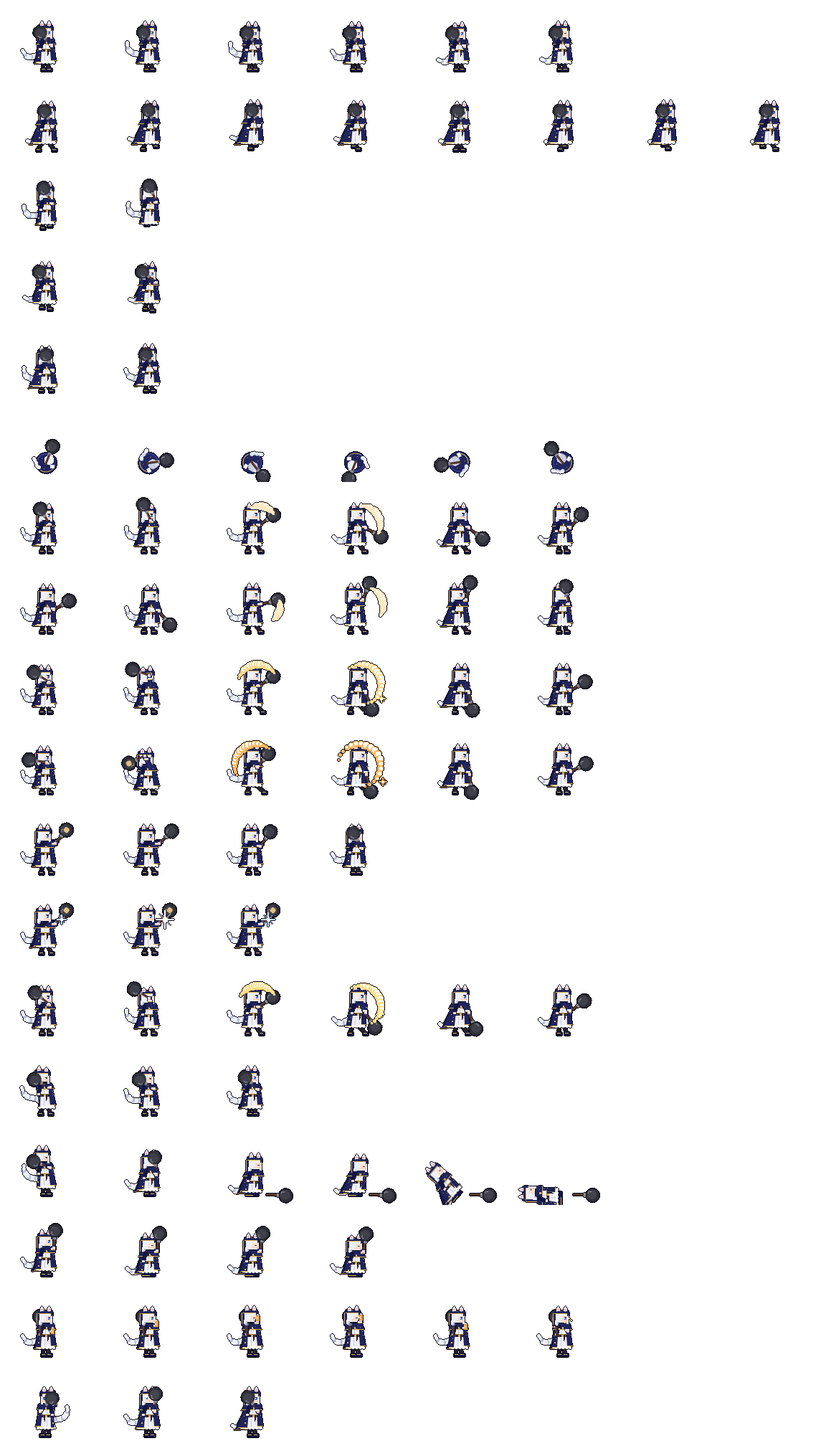
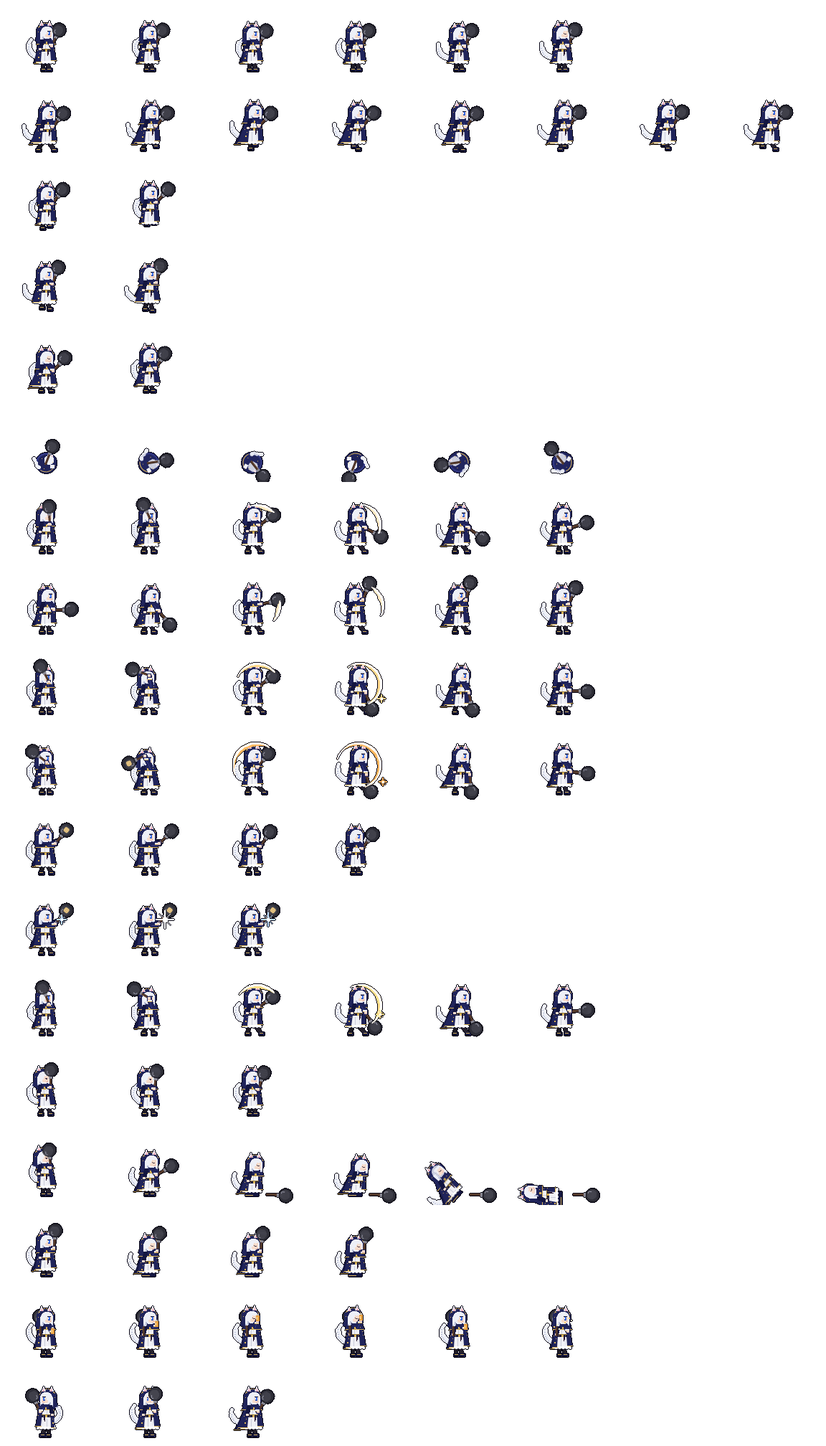
WIP: sprite polish (hood, tail curl, smear, weapon carry)

diff --git a/index.html b/index.html
@@ -60,7 +60,7 @@ const BOSS = { name: '弔鐘の騎士 ノクターン', hp: 950, souls: 2000, w:
 const LEVEL_COST = lv => 120 + lv * 60;
 
 // ---- sprite metadata embedded at build time (tools/build.py) ----
-const EMBEDDED_META = {};
+const EMBEDDED_META = {"astarte_pan":{"cw":144,"ch":112,"ax":64,"ay":100,"anims":{"idle":{"row":0,"n":6,"ph":["","","","","",""]},"run":{"row":1,"n":8,"ph":["","","","","","","",""]},"jump":{"row":2,"n":2,"ph":["",""]},"fall":{"row":3,"n":2,"ph":["",""]},"land":{"row":4,"n":2,"ph":["",""]},"roll":{"row":5,"n":6,"ph":["","","","","",""]},"light1":{"row":6,"n":6,"ph":["wu","wu","act","act","rec","rec"]},"light2":{"row":7,"n":6,"ph":["wu","wu","act","act","rec","rec"]},"light3":{"row":8,"n":6,"ph":["wu","wu","act","act","rec","rec"]},"heavy":{"row":9,"n":6,"ph":["wu","wu","act","act","rec","rec"]},"parry":{"row":10,"n":4,"ph":["","","",""]},"parryflash":{"row":11,"n":3,"ph":["","",""]},"riposte":{"row":12,"n":6,"ph":["wu","wu","act","act","rec","rec"]},"hit":{"row":13,"n":3,"ph":["","",""]},"death":{"row":14,"n":6,"ph":["","","","","",""]},"rest":{"row":15,"n":4,"ph":["","","",""]},"flask":{"row":16,"n":6,"ph":["","","","","",""]},"turn":{"row":17,"n":3,"ph":["","",""]}}},"astarte_scythe":{"cw":144,"ch":112,"ax":64,"ay":100,"anims":{"idle":{"row":0,"n":6,"ph":["","","","","",""]},"run":{"row":1,"n":8,"ph":["","","","","","","",""]},"jump":{"row":2,"n":2,"ph":["",""]},"fall":{"row":3,"n":2,"ph":["",""]},"land":{"row":4,"n":2,"ph":["",""]},"roll":{"row":5,"n":6,"ph":["","","","","",""]},"light1":{"row":6,"n":6,"ph":["wu","wu","act","act","rec","rec"]},"light2":{"row":7,"n":6,"ph":["wu","wu","act","act","rec","rec"]},"light3":{"row":8,"n":6,"ph":["wu","wu","act","act","rec","rec"]},"heavy":{"row":9,"n":6,"ph":["wu","wu","act","act","rec","rec"]},"parry":{"row":10,"n":4,"ph":["","","",""]},"parryflash":{"row":11,"n":3,"ph":["","",""]},"riposte":{"row":12,"n":6,"ph":["wu","wu","act","act","rec","rec"]},"hit":{"row":13,"n":3,"ph":["","",""]},"death":{"row":14,"n":6,"ph":["","","","","",""]},"rest":{"row":15,"n":4,"ph":["","","",""]},"flask":{"row":16,"n":6,"ph":["","","","","",""]},"turn":{"row":17,"n":3,"ph":["","",""]}}}};
 // ===== core: canvas, input, utils =====
 const cv = document.getElementById('c'), ctx = cv.getContext('2d');
 ctx.imageSmoothingEnabled = false;
@@ -291,7 +291,7 @@ const ASTA = {};
   function poly(g, pts, c) { g.fillStyle = c; g.beginPath(); g.moveTo(Math.round(pts[0][0]), Math.round(pts[0][1])); for (const p of pts.slice(1)) g.lineTo(Math.round(p[0]), Math.round(p[1])); g.closePath(); g.fill(); }
   function line(g, x0, y0, x1, y1, w, c) { const n = Math.max(1, Math.ceil(Math.hypot(x1 - x0, y1 - y0))); g.fillStyle = c; for (let i = 0; i <= n; i++) { const t = i / n; g.fillRect(Math.round(x0 + (x1 - x0) * t - w / 2), Math.round(y0 + (y1 - y0) * t - w / 2), w, w); } }
   const D = { by: 0, lean: 0, crouch: 0, fl: [4, 0], bl: [-4, 0], flare: 0, capeUp: 0, skirt: 0, tail: 0, tailUp: 0, ear: 0, eye: 'open', headDy: 0, hairUp: 0,
-    hand: [8, -36], wa: null, two: false, kneel: 0, rot: 0, front: false, mirror: false, smear: null, flask: null, wHand: 'front', burst: 0, heal: 0, lie: 0, dropW: false };
+    hand: [8, -36], wa: null, two: false, kneel: 0, rot: 0, front: false, mirror: false, smear: null, flask: null, wHand: 'front', burst: 0, heal: 0, lie: 0, dropW: false, wBehind: true };
   // ---------- weapon ----------
   function weapon(g, hx, hy, a, wpn, hot) {
     g.save(); g.translate(hx, hy); g.rotate(a);
@@ -315,15 +315,18 @@ const ASTA = {};
     }
     g.restore();
   }
-  function smear(g, s) { // crescent swing smear (pivot = hand)
-    const [cx, cy] = s.c, n = 18; for (let i = 0; i <= n; i++) { const t = i / n, a = s.a0 + (s.a1 - s.a0) * t, w = Math.round(1 + 4 * Math.sin(t * Math.PI));
-      disc(g, cx + Math.cos(a) * s.r, cy + Math.sin(a) * s.r, w, s.col); if (w > 2) disc(g, cx + Math.cos(a) * (s.r + 1), cy + Math.sin(a) * (s.r + 1), w - 2, '#ffffff'); }
+  function smear(g, s) { // crescent swing smear (pivot = hand): outer arc + thinner inner arc
+    const [cx, cy] = s.c, n = 20, o = [], inn = [], hi = [];
+    for (let i = 0; i <= n; i++) { const t = i / n, a = s.a0 + (s.a1 - s.a0) * t, w = 1 + 7 * Math.sin(t * Math.PI) * (0.4 + .6 * t);
+      o.push([cx + Math.cos(a) * (s.r + 2), cy + Math.sin(a) * (s.r + 2)]); inn.push([cx + Math.cos(a) * (s.r + 2 - w), cy + Math.sin(a) * (s.r + 2 - w)]); hi.push([cx + Math.cos(a) * (s.r + 1 - w * .35), cy + Math.sin(a) * (s.r + 1 - w * .35)]); }
+    poly(g, o.concat(inn.reverse()), s.col); poly(g, o.concat(hi.slice().reverse()), '#ffffff');
   }
   // ---------- body ----------
   function body(g, F, wpn) {
     const k = F.crouch + F.kneel * 10, hipY = -20 + k + F.by, L = F.lean, sx = L * .5, hx = L; // upper body shear: torso shifts half, head full
-    // tail (behind) - chain of discs, curling up
-    { let x = -9 + sx * .3, y = hipY - 4, a = Math.PI * .85 + F.tail * .4; for (let i = 0; i < 12; i++) { const r = i < 9 ? 3 : 2; disc(g, x, y, r, i % 3 ? C.hair : C.hairS); a += (i < 5 ? -.05 : .28) - F.tailUp * .05 + F.tail * .03; x += Math.cos(a) * 2.6; y += Math.sin(a) * 2.6 - .9 - F.tailUp * .4; } }
+    // tail (behind) - fluffy C-curl rising behind her
+    { let x = -8 + sx * .3, y = hipY - 2, a = Math.PI * .92 - F.tailUp * .25 + F.tail * .25; for (let i = 0; i < 13; i++) { const r = i < 2 ? 2 : i < 10 ? 3 : 2;
+        disc(g, x, y, r, C.hair); if (i > 1 && i < 11) px(g, x - 1, y + r - 1, 2, 1, C.hairS); a += .2 + F.tail * .02 - (i > 8 ? F.tailUp * .05 : 0); x += Math.cos(a) * 2.8; y += Math.sin(a) * 2.8; } }
     // back cape panel (lags with flare)
     const hem = -12 + k * .7 - F.capeUp * 8;
     poly(g, [[-9 + sx, hipY - 26], [-4 + sx, hipY - 26], [-4 + sx * .3, hem], [-17 - F.flare * 9, hem + F.flare * 2 - F.capeUp * 3]], C.navyD);
@@ -358,30 +361,36 @@ const ASTA = {};
   }
   function head(g, F, ox, oy) {
     const y = oy + F.headDy, x = ox, hu = F.hairUp;
-    // hair back + hood back
-    px(g, x - 13, y - 14, 5, 18, C.navy); px(g, x - 13, y - 14, 1, 16, C.gold);
-    px(g, x - 9, y - 16 - hu, 18, 15, C.hair); px(g, x - 10, y - 4, 4, 6 - hu, C.hair); px(g, x - 9, y + 1 - hu, 3, 2, C.hairS); px(g, x + 6, y - 4, 3, 5, C.hair); px(g, x - 7, y - 2, 2, 3, C.hairS);
-    if (F.front) { // facing camera
-      px(g, x - 5, y - 12, 11, 10, C.skin); px(g, x - 6, y - 14, 13, 4, C.hair); px(g, x - 6, y - 10, 2, 5, C.hair); px(g, x + 5, y - 10, 2, 5, C.hair);
-      px(g, x - 4, y - 9, 2, 3, C.eye); px(g, x + 2, y - 9, 2, 3, C.eye); px(g, x - 4, y - 9, 1, 1, '#fff'); px(g, x + 2, y - 9, 1, 1, '#fff'); px(g, x, y - 4, 1, 1, '#d89a9a');
+    // hood (rounded), back drape
+    disc(g, x - 1, y - 9, 12, C.navy); poly(g, [[x - 12, y - 6], [x - 6, y - 4], [x - 9, y + 6], [x - 15, y + 4]], C.navy); disc(g, x - 3, y - 13, 7, C.navyL);
+    disc(g, x - 1, y - 9, 12, C.navy);
+    for (const [a, b] of [[-9, -16], [-4, -20], [-11, -9], [2, -20]]) px(g, x + a, y + b, 1, 1, C.gold);
+    // hair: bob with side locks
+    disc(g, x + 1, y - 8, 8, C.hair); px(g, x - 8, y - 9, 4, 13 - hu, C.hair); px(g, x - 8, y + 2 - hu, 2, 2, C.hairS); px(g, x - 5, y - 2, 2, 5, C.hairS);
+    px(g, x + 7, y - 9, 3, 12 - hu, C.hair); px(g, x + 8, y + 1 - hu, 2, 2, C.hairS);
+    if (F.front) {
+      px(g, x - 4, y - 11, 10, 10, C.skin); px(g, x - 5, y - 13, 12, 3, C.hair); px(g, x - 5, y - 10, 1, 1, C.hair); px(g, x + 1, y - 10, 1, 1, C.hair); px(g, x + 6, y - 10, 1, 1, C.hair);
+      for (const ex of [-3, 3]) { px(g, x + ex, y - 8, 2, 4, C.eye); px(g, x + ex, y - 9, 2, 1, '#1d2f78'); px(g, x + ex, y - 8, 1, 1, '#fff'); }
+      px(g, x + 1, y - 3, 1, 1, '#d89a9a');
     } else {
-      px(g, x - 2, y - 12, 10, 10, C.skin); px(g, x - 3, y - 14, 11, 4, C.hair); px(g, x + 2, y - 11, 2, 2, C.hair); px(g, x - 3, y - 11, 3, 6, C.hair); px(g, x + 7, y - 6, 1, 2, C.skin);
+      px(g, x - 1, y - 11, 9, 10, C.skin); px(g, x + 7, y - 9, 1, 6, C.skin); px(g, x - 1, y - 2, 1, 1, C.hair); px(g, x + 7, y - 2, 1, 1, C.hair);
+      px(g, x - 2, y - 13, 11, 3, C.hair); px(g, x + 1, y - 10, 1, 2, C.hair); px(g, x + 4, y - 10, 1, 1, C.hair); px(g, x + 8, y - 10, 1, 1, C.hair); px(g, x - 1, y - 10, 2, 5, C.hair);
       const e = F.eye;
-      if (e === 'closed') px(g, x + 3, y - 7, 3, 1, '#4a3a4a');
-      else if (e === 'wince') { px(g, x + 3, y - 8, 3, 1, '#4a3a4a'); px(g, x + 4, y - 7, 2, 1, '#4a3a4a'); }
-      else { px(g, x + 3, y - 9, 3, 4, C.eye); px(g, x + 3, y - 9, 3, 1, '#1d2f78'); px(g, x + 3, y - 8, 1, 1, '#fff'); px(g, x + 5, y - 6, 1, 1, '#9ab8ff'); if (e === 'fierce') px(g, x + 2, y - 10, 4, 1, '#2a2a3a'); }
-      px(g, x + 6, y - 4, 1, 1, '#d89a9a');
+      if (e === 'closed') { px(g, x + 3, y - 6, 3, 1, '#4a3a4a'); px(g, x + 2, y - 7, 1, 1, '#4a3a4a'); }
+      else if (e === 'wince') { px(g, x + 3, y - 7, 3, 1, '#4a3a4a'); px(g, x + 4, y - 6, 2, 1, '#4a3a4a'); }
+      else { px(g, x + 3, y - 9, 3, 5, C.eye); px(g, x + 2, y - 10, 5, 1, '#1d1a30'); px(g, x + 3, y - 8, 1, 2, '#fff'); px(g, x + 5, y - 5, 1, 1, '#9ab8ff'); px(g, x + 3, y - 5, 3, 1, '#2a4ab0');
+        if (e === 'fierce') px(g, x + 2, y - 11, 5, 1, '#9a9ab0'); }
+      px(g, x + 6, y - 3, 1, 1, '#d89a9a'); px(g, x + 4, y - 2, 2, 1, '#e8b8b0');
     }
-    // hood
-    px(g, x - 11, y - 18, 20, 5, C.navy); px(g, x - 11, y - 14, 20, 1, C.gold); px(g, x + 7, y - 16, 3, 6, C.navy); px(g, x + 8, y - 11, 1, 1, C.gold);
-    for (const [a, b] of [[-8, -17], [-2, -18], [4, -17]]) px(g, x + a, y + b, 1, 1, C.gold);
-    // ears (twitch)
-    const ear = (ex, tw) => { px(g, x + ex, y - 21 + tw, 5, 4, C.hair); px(g, x + ex + 1, y - 23 + tw * 2, 3, 2, C.hair); px(g, x + ex + 2, y - 24 + tw * 2, 1, 1, C.hair); px(g, x + ex + 1, y - 20 + tw, 3, 2, C.pink); };
-    ear(-8, F.ear > 0 ? 1 : 0); ear(2, F.ear < 0 ? 1 : 0);
+    // hood front trim
+    for (let a = -2.6; a < -0.3; a += .12) px(g, x - 1 + Math.cos(a) * 12, y - 9 + Math.sin(a) * 12, 1, 1, C.gold);
+    // ears poke through the hood
+    const ear = (ex, tw) => { poly(g, [[x + ex, y - 17 + tw], [x + ex + 6, y - 17 + tw], [x + ex + 3, y - 25 + tw * 2]], C.hair); poly(g, [[x + ex + 1.5, y - 17 + tw], [x + ex + 4.5, y - 17 + tw], [x + ex + 3, y - 22 + tw * 2]], C.pink); };
+    ear(-9, F.ear > 0 ? 1 : 0); ear(2, F.ear < 0 ? 1 : 0);
   }
   function arms(g, F, b, wpn, phase) { // phase 'back' draws the far arm, 'front' the near arm + weapon
     const shF = [5 + b.hx * .7, b.ty + 1], shB = [-5 + b.hx * .7, b.ty + 1];
-    const wa = F.wa === null ? (wpn === 'pan' ? -2.3 : -1.75) : F.wa, [hx, hy] = F.hand;
+    const wa = F.wa === null ? -2.3 : F.wa, [hx, hy] = F.hand;
     if (phase === 'back') {
       let bh = [-7 + b.tx, b.ty + 14];
       if (F.two && F.wHand === 'front') bh = [hx + Math.cos(wa) * (wpn === 'pan' ? 4 : 12), hy + Math.sin(wa) * (wpn === 'pan' ? 4 : 12)];
@@ -390,7 +399,7 @@ const ASTA = {};
       if (F.wHand === 'back') weapon(g, bh[0], bh[1], F.wa2 !== undefined ? F.wa2 : -1.45, wpn);
       return;
     }
-    if (F.wHand === 'front') weapon(g, hx, hy, wa, wpn, F.hot);
+    if (F.wHand === 'front' && !(F.wBehind && !F.two)) weapon(g, hx, hy, wa, wpn, F.hot);
     line(g, shF[0], shF[1], hx, hy, 6, C.navy); line(g, shF[0], shF[1] + 2, hx, hy + 2, 1, C.navyL);
     const cx = hx - (hx - shF[0]) * .25, cy = hy - (hy - shF[1]) * .25; px(g, cx - 3, cy - 1, 6, 3, C.white); px(g, cx - 3, cy + 1, 6, 1, C.gold);
     px(g, hx - 2, hy - 2, 4, 4, C.skin); px(g, hx - 2, hy + 1, 4, 1, '#d8b0a0');
@@ -414,6 +423,7 @@ const ASTA = {};
       g.rotate(-Math.PI / 2 * F.lie); g.translate(-2 * F.lie, 0);
     }
     if (F.dropW && !F.lie) weapon(g, 22, -3, .06, wpn);
+    if (F.wBehind && !F.two && F.wHand === 'front' && !F.dropW) weapon(g, F.hand[0], F.hand[1], F.wa === null ? -2.3 : F.wa, wpn, F.hot);
     const b = body(g, F, wpn);
     if (F.two || F.wHand === 'back') arms(g, F, b, wpn, 'back');
     head(g, F, b.hx, b.ty - 3);
@@ -435,16 +445,16 @@ const ASTA = {};
   // ---------- animation definitions ----------
   const S = Math.sin, PI = Math.PI;
   function attack(o, wpn) { // o: a0,a1,h0,h1 (hands), lean0, lean1, crouch, step, col, r
-    const fr = [], idleA = wpn === 'pan' ? -2.3 : -1.75, two = wpn === 'scythe';
-    const mk = (t, ph) => ({ wa: t.wa, hand: t.hand, lean: t.lean, crouch: t.crouch || 0, fl: t.fl || [5, 0], bl: t.bl || [-6, 0], flare: t.flare || 0, two, eye: 'fierce', tail: t.tail || 0, skirt: t.skirt || 0, smear: t.smear || null, hot: t.hot, ear: t.ear || 0, burst: t.burst || 0, burstAt: t.burstAt, burstCol: t.burstCol, ph });
+    const fr = [], idleA = wpn === 'pan' ? -1.15 : -2.3, H0x = wpn === 'pan' ? 8 : 10, H0y = wpn === 'pan' ? -36 : -31, two = wpn === 'scythe';
+    const mk = (t, ph) => ({ wa: t.wa, hand: t.hand, lean: t.lean, crouch: t.crouch || 0, fl: t.fl || [5, 0], bl: t.bl || [-6, 0], flare: t.flare || 0, two, wBehind: false, eye: 'fierce', tail: t.tail || 0, skirt: t.skirt || 0, smear: t.smear || null, hot: t.hot, ear: t.ear || 0, burst: t.burst || 0, burstAt: t.burstAt, burstCol: t.burstCol, ph });
     const H0 = o.h0, H1 = o.h1;
-    fr.push(mk({ wa: lerp(idleA, o.a0, .55), hand: [lerp(8, H0[0], .5), lerp(-36, H0[1], .5)], lean: o.lean0 * .5, crouch: o.crouch * .5, flare: .2, tail: .3 }, 'wu'));
+    fr.push(mk({ wa: lerp(idleA, o.a0, .55), hand: [lerp(H0x, H0[0], .5), lerp(H0y, H0[1], .5)], lean: o.lean0 * .5, crouch: o.crouch * .5, flare: .2, tail: .3 }, 'wu'));
     fr.push(mk({ wa: o.a0, hand: H0, lean: o.lean0, crouch: o.crouch, flare: .4, tail: .6, fl: [6, 0], bl: [-8, 0], hot: o.hot, ear: 1 }, 'wu'));
     const sm = (f0, f1) => ({ c: [lerp(H0[0], H1[0], .5), lerp(H0[1], H1[1], .5) + (o.dy || 0)], a0: lerp(o.a0, o.a1, f0) + (o.so || 0), a1: lerp(o.a0, o.a1, f1) + (o.so || 0), r: o.r, col: o.col });
     fr.push(mk({ wa: lerp(o.a0, o.a1, .55), hand: [lerp(H0[0], H1[0], .6), lerp(H0[1], H1[1], .6)], lean: lerp(o.lean0, o.lean1, .6), flare: -.3, fl: [9 + o.step, 0], bl: [-7, 0], smear: sm(0, .55), skirt: .5, tail: .2 }, 'act'));
     fr.push(mk({ wa: o.a1, hand: H1, lean: o.lean1, flare: -.8, fl: [10 + o.step, 0], bl: [-8, 0], smear: sm(.15, 1), skirt: 1, tail: -.4, burst: o.burst ? 5 : 0, burstAt: o.burstAt, burstCol: o.col }, 'act'));
     fr.push(mk({ wa: o.a1 + (o.a1 > o.a0 ? .15 : -.15), hand: H1, lean: o.lean1 * .7, flare: .9, fl: [9 + o.step, 0], bl: [-6, 0], skirt: .6, tail: -1 }, 'rec'));
-    fr.push(mk({ wa: lerp(o.a1, idleA, .5), hand: [lerp(H1[0], 8, .5), lerp(H1[1], -36, .5)], lean: o.lean1 * .3, flare: .4, fl: [6, 0], bl: [-5, 0], tail: -.5 }, 'rec'));
+    fr.push(mk({ wa: lerp(o.a1, idleA, .5), hand: [lerp(H1[0], H0x, .5), lerp(H1[1], H0y, .5)], lean: o.lean1 * .3, flare: .4, fl: [6, 0], bl: [-5, 0], tail: -.5 }, 'rec'));
     return fr;
   }
   const ATK = {
@@ -461,31 +471,32 @@ const ASTA = {};
       heavy:  { a0: -3.6, a1: 1.3, h0: [-6, -54], h1: [15, -28], lean0: -4, lean1: 6, crouch: 5, step: 7, r: 30, col: '#ffb860', hot: true, burst: 1, burstAt: [38, -18] },
       riposte:{ a0: -2.6, a1: 1.0, h0: [0, -52], h1: [14, -32], lean0: -2, lean1: 5, crouch: 2, step: 3, r: 28, col: '#ffe08a', burst: 1, burstAt: [34, -30] } } };
   function anims(wpn) {
-    const A = {}, idleA = wpn === 'pan' ? -2.3 : -1.75;
-    A.idle = [0, 1, 2, 3, 4, 5].map(i => ({ by: [0, 0, 1, 1, 1, 0][i], tail: S(i / 6 * PI * 2), ear: i === 4 ? 1 : 0, eye: i === 5 ? 'closed' : 'open', wa: idleA + S(i / 6 * PI * 2) * .03, hand: [8, -36 + [0, 0, 1, 1, 1, 0][i]], flare: S(i / 6 * PI * 2) * .1 }));
+    const A = {}, idleA = wpn === 'pan' ? -1.15 : -2.3, H0x = wpn === 'pan' ? 8 : 10, H0y = wpn === 'pan' ? -36 : -31;
+    A.idle = [0, 1, 2, 3, 4, 5].map(i => ({ by: [0, 0, 1, 1, 1, 0][i], tail: S(i / 6 * PI * 2), ear: i === 4 ? 1 : 0, eye: i === 5 ? 'closed' : 'open', wa: idleA + S(i / 6 * PI * 2) * .03, hand: [H0x + 0, H0y + 0 + [0, 0, 1, 1, 1, 0][i]], flare: S(i / 6 * PI * 2) * .1 }));
     A.run = [0, 1, 2, 3, 4, 5, 6, 7].map(i => { const p = i / 8 * PI * 2, c = Math.cos(p), s = S(p);
-      return { fl: [3 + c * 8, -Math.max(0, s) * 5], bl: [-3 - c * 8, -Math.max(0, -s) * 5], by: -Math.round(Math.abs(s) * 2), lean: 3, flare: .7 + s * .2, tail: -1 + s * .3, tailUp: .4, skirt: .4 + Math.abs(c) * .4, wa: idleA + .25 + s * .06, hand: [9, -35 - Math.round(Math.abs(s))], hairUp: 0 }; });
+      return { fl: [3 + c * 8, -Math.max(0, s) * 5], bl: [-3 - c * 8, -Math.max(0, -s) * 5], by: -Math.round(Math.abs(s) * 2), lean: 3, flare: .7 + s * .2, tail: -1 + s * .3, tailUp: .4, skirt: .4 + Math.abs(c) * .4, wa: idleA + .25 + s * .06, hand: [H0x + 1, H0y + 1 - Math.round(Math.abs(s))], hairUp: 0 }; });
     A.jump = [{ fl: [5, -6], bl: [-5, -3], flare: -.3, capeUp: -.2, tail: .5, tailUp: -.5, skirt: -.3, lean: 1, wa: idleA + .2, hand: [9, -40] }, { fl: [6, -9], bl: [-4, -7], by: -1, flare: -.4, tail: .7, tailUp: -.6, skirt: -.4, lean: 1, wa: idleA + .3, hand: [10, -42] }];
     A.fall = [{ fl: [5, -2], bl: [-6, -4], capeUp: .6, flare: .3, hairUp: 1, tail: -.4, tailUp: 1, skirt: .8, wa: idleA - .1, hand: [9, -40] }, { fl: [4, 0], bl: [-6, -2], capeUp: 1, flare: .4, hairUp: 2, tail: -.6, tailUp: 1.2, skirt: 1, ear: 1, wa: idleA - .2, hand: [10, -42] }];
-    A.land = [{ crouch: 5, fl: [7, 0], bl: [-7, 0], flare: .8, skirt: 1.2, tail: .8, eye: 'closed', wa: idleA + .3, hand: [10, -31] }, { crouch: 2, fl: [5, 0], bl: [-5, 0], flare: .4, skirt: .5, tail: .4, wa: idleA + .1, hand: [9, -34] }];
+    A.land = [{ crouch: 5, fl: [7, 0], bl: [-7, 0], flare: .8, skirt: 1.2, tail: .8, eye: 'closed', wa: idleA + .3, hand: [H0x + 2, H0y + 5] }, { crouch: 2, fl: [5, 0], bl: [-5, 0], flare: .4, skirt: .5, tail: .4, wa: idleA + .1, hand: [H0x + 1, H0y + 2] }];
     A.roll = [0, 1, 2, 3, 4, 5].map(i => ({ roll: 1, rot: i / 6 * PI * 2 }));
     for (const k of ['light1', 'light2', 'light3', 'heavy']) A[k] = attack(ATK[wpn][k], wpn);
     A.parry = [{ wa: wpn === 'pan' ? -.9 : -.45, hand: [13, -44], lean: -2, two: true, fl: [7, 0], bl: [-7, 0], flare: .3, eye: 'fierce', hot: true },
       { wa: wpn === 'pan' ? -.8 : -.4, hand: [14, -44], lean: -2, two: true, fl: [7, 0], bl: [-7, 0], flare: .4, eye: 'fierce' },
-      { wa: -1.0, hand: [11, -40], lean: -1, two: true, fl: [6, 0], bl: [-6, 0], flare: .2 }, { wa: idleA + .2, hand: [9, -37], lean: 0, flare: .1 }];
+      { wa: -1.0, hand: [11, -40], lean: -1, two: true, fl: [6, 0], bl: [-6, 0], flare: .2 }, { wa: idleA + .2, hand: [H0x + 1, H0y + -1], lean: 0, flare: .1 }];
     A.parryflash = [6, 12, 9].map((s, i) => Object.assign({}, A.parry[0], { burst: s, burstAt: [22, -50], burstCol: i === 1 ? '#ffffff' : '#bfe0ff', flare: .6 + i * .1, ear: 1 }));
     A.riposte = attack(ATK[wpn].riposte, wpn).map(f => Object.assign(f, { eye: 'fierce' }));
     A.hit = [{ lean: -4, eye: 'wince', flare: -.8, hairUp: 1, tail: 1, tailUp: 1, ear: -1, crouch: 1, fl: [6, 0], bl: [-8, 0], wa: idleA - .4, hand: [6, -40] },
-      { lean: -3, eye: 'wince', flare: -.4, tail: .6, crouch: 2, fl: [6, 0], bl: [-7, 0], wa: idleA - .3, hand: [7, -38] }, { lean: -1, flare: .2, tail: .2, crouch: 1, wa: idleA - .1, hand: [8, -37] }];
-    A.death = [{ lean: -4, eye: 'wince', flare: -.6, hairUp: 1, tail: 1, wa: idleA - .5, hand: [6, -40] }, { crouch: 6, lean: 2, eye: 'closed', flare: .5, tail: -.2, wa: idleA + .6, hand: [10, -30] },
+      { lean: -3, eye: 'wince', flare: -.4, tail: .6, crouch: 2, fl: [6, 0], bl: [-7, 0], wa: idleA - .3, hand: [H0x + -1, H0y + -2] }, { lean: -1, flare: .2, tail: .2, crouch: 1, wa: idleA - .1, hand: [H0x + 0, H0y + -1] }];
+    A.death = [{ lean: -4, eye: 'wince', flare: -.6, hairUp: 1, tail: 1, wa: idleA - .5, hand: [6, -40] }, { crouch: 6, lean: 2, eye: 'closed', flare: .5, tail: -.2, wa: idleA + .6, hand: [H0x + 2, H0y + 6] },
       { kneel: 1, lean: 4, eye: 'closed', flare: .6, tail: -.5, dropW: true }, { kneel: 1, lean: 7, eye: 'closed', flare: .8, tail: -.8, headDy: 2, dropW: true },
       { kneel: 1, lean: 7, eye: 'closed', lie: .55, flare: 1, tail: -1, dropW: true }, { kneel: 1, lean: 7, eye: 'closed', lie: 1, flare: 1, tail: -1, dropW: true }];
-    A.rest = [{ crouch: 5, wa: -1.5, hand: [11, -40], eye: 'open', flare: .3 }, { kneel: 1, wa: -1.45, hand: [11, -36], eye: 'closed', flare: .5, tail: -.6 },
-      { kneel: 1, wa: -1.45, hand: [11, -36], eye: 'closed', flare: .5, tail: -.4, by: 0 }, { kneel: 1, wa: -1.45, hand: [11, -35], eye: 'closed', flare: .5, tail: -.2, by: 1, ear: 1 }];
+    A.rest = [{ crouch: 5, wa: -1.5, hand: [11, -40], eye: 'open', flare: .3 }, { kneel: 1, wa: -1.45, hand: [H0x + 3, H0y + 0], eye: 'closed', flare: .5, tail: -.6 },
+      { kneel: 1, wa: -1.45, hand: [H0x + 3, H0y + 0], eye: 'closed', flare: .5, tail: -.4, by: 0 }, { kneel: 1, wa: -1.45, hand: [H0x + 3, H0y + 1], eye: 'closed', flare: .5, tail: -.2, by: 1, ear: 1 }];
     const fl = (h, f, o) => Object.assign({ wHand: 'back', hand2: [-8, -32], wa2: -1.6, hand: h, flask: f }, o);
     A.flask = [fl([9, -34], [9, -34], {}), fl([10, -44], [10, -44], {}), fl([7, -50], [7, -52], { lean: -2, headDy: -1, eye: 'closed' }), fl([7, -51], [7, -53], { lean: -3, headDy: -1, eye: 'closed', ear: 1 }),
       fl([9, -40], [9, -40], { lean: -1 }), fl([8, -36], null, { heal: 1, eye: 'open' })];
-    A.turn = [{ mirror: true, lean: -2, flare: -.8, tail: 1, skirt: .6, wa: idleA, hand: [8, -36] }, { front: true, flare: .2, tail: 0, skirt: .8, wa: -1.57, hand: [8, -36] }, { lean: 1, flare: .9, tail: -1, skirt: .6, wa: idleA + .1, hand: [8, -36] }];
+    A.turn = [{ mirror: true, lean: -2, flare: -.8, tail: 1, skirt: .6, wa: idleA, hand: [H0x + 0, H0y + 0] }, { front: true, flare: .2, tail: 0, skirt: .8, wa: -1.57, hand: [H0x + 0, H0y + 0] }, { lean: 1, flare: .9, tail: -1, skirt: .6, wa: idleA + .1, hand: [H0x + 0, H0y + 0] }];
+    if (wpn === 'pan') for (const k in A) for (const f of A[k]) if (f.wBehind === undefined) f.wBehind = false;
     return A;
   }
   ASTA.ORDER = ['idle', 'run', 'jump', 'fall', 'land', 'roll', 'light1', 'light2', 'light3', 'heavy', 'parry', 'parryflash', 'riposte', 'hit', 'death', 'rest', 'flask', 'turn'];

diff --git a/src/04b_astarte.js b/src/04b_astarte.js
@@ -9,7 +9,7 @@ const ASTA = {};
   function poly(g, pts, c) { g.fillStyle = c; g.beginPath(); g.moveTo(Math.round(pts[0][0]), Math.round(pts[0][1])); for (const p of pts.slice(1)) g.lineTo(Math.round(p[0]), Math.round(p[1])); g.closePath(); g.fill(); }
   function line(g, x0, y0, x1, y1, w, c) { const n = Math.max(1, Math.ceil(Math.hypot(x1 - x0, y1 - y0))); g.fillStyle = c; for (let i = 0; i <= n; i++) { const t = i / n; g.fillRect(Math.round(x0 + (x1 - x0) * t - w / 2), Math.round(y0 + (y1 - y0) * t - w / 2), w, w); } }
   const D = { by: 0, lean: 0, crouch: 0, fl: [4, 0], bl: [-4, 0], flare: 0, capeUp: 0, skirt: 0, tail: 0, tailUp: 0, ear: 0, eye: 'open', headDy: 0, hairUp: 0,
-    hand: [8, -36], wa: null, two: false, kneel: 0, rot: 0, front: false, mirror: false, smear: null, flask: null, wHand: 'front', burst: 0, heal: 0, lie: 0, dropW: false };
+    hand: [8, -36], wa: null, two: false, kneel: 0, rot: 0, front: false, mirror: false, smear: null, flask: null, wHand: 'front', burst: 0, heal: 0, lie: 0, dropW: false, wBehind: true };
   // ---------- weapon ----------
   function weapon(g, hx, hy, a, wpn, hot) {
     g.save(); g.translate(hx, hy); g.rotate(a);
@@ -33,15 +33,18 @@ const ASTA = {};
     }
     g.restore();
   }
-  function smear(g, s) { // crescent swing smear (pivot = hand)
-    const [cx, cy] = s.c, n = 18; for (let i = 0; i <= n; i++) { const t = i / n, a = s.a0 + (s.a1 - s.a0) * t, w = Math.round(1 + 4 * Math.sin(t * Math.PI));
-      disc(g, cx + Math.cos(a) * s.r, cy + Math.sin(a) * s.r, w, s.col); if (w > 2) disc(g, cx + Math.cos(a) * (s.r + 1), cy + Math.sin(a) * (s.r + 1), w - 2, '#ffffff'); }
+  function smear(g, s) { // crescent swing smear (pivot = hand): outer arc + thinner inner arc
+    const [cx, cy] = s.c, n = 20, o = [], inn = [], hi = [];
+    for (let i = 0; i <= n; i++) { const t = i / n, a = s.a0 + (s.a1 - s.a0) * t, w = 1 + 7 * Math.sin(t * Math.PI) * (0.4 + .6 * t);
+      o.push([cx + Math.cos(a) * (s.r + 2), cy + Math.sin(a) * (s.r + 2)]); inn.push([cx + Math.cos(a) * (s.r + 2 - w), cy + Math.sin(a) * (s.r + 2 - w)]); hi.push([cx + Math.cos(a) * (s.r + 1 - w * .35), cy + Math.sin(a) * (s.r + 1 - w * .35)]); }
+    poly(g, o.concat(inn.reverse()), s.col); poly(g, o.concat(hi.slice().reverse()), '#ffffff');
   }
   // ---------- body ----------
   function body(g, F, wpn) {
     const k = F.crouch + F.kneel * 10, hipY = -20 + k + F.by, L = F.lean, sx = L * .5, hx = L; // upper body shear: torso shifts half, head full
-    // tail (behind) - chain of discs, curling up
-    { let x = -9 + sx * .3, y = hipY - 4, a = Math.PI * .85 + F.tail * .4; for (let i = 0; i < 12; i++) { const r = i < 9 ? 3 : 2; disc(g, x, y, r, i % 3 ? C.hair : C.hairS); a += (i < 5 ? -.05 : .28) - F.tailUp * .05 + F.tail * .03; x += Math.cos(a) * 2.6; y += Math.sin(a) * 2.6 - .9 - F.tailUp * .4; } }
+    // tail (behind) - fluffy C-curl rising behind her
+    { let x = -8 + sx * .3, y = hipY - 2, a = Math.PI * .92 - F.tailUp * .25 + F.tail * .25; for (let i = 0; i < 13; i++) { const r = i < 2 ? 2 : i < 10 ? 3 : 2;
+        disc(g, x, y, r, C.hair); if (i > 1 && i < 11) px(g, x - 1, y + r - 1, 2, 1, C.hairS); a += .2 + F.tail * .02 - (i > 8 ? F.tailUp * .05 : 0); x += Math.cos(a) * 2.8; y += Math.sin(a) * 2.8; } }
     // back cape panel (lags with flare)
     const hem = -12 + k * .7 - F.capeUp * 8;
     poly(g, [[-9 + sx, hipY - 26], [-4 + sx, hipY - 26], [-4 + sx * .3, hem], [-17 - F.flare * 9, hem + F.flare * 2 - F.capeUp * 3]], C.navyD);
@@ -76,30 +79,36 @@ const ASTA = {};
   }
   function head(g, F, ox, oy) {
     const y = oy + F.headDy, x = ox, hu = F.hairUp;
-    // hair back + hood back
-    px(g, x - 13, y - 14, 5, 18, C.navy); px(g, x - 13, y - 14, 1, 16, C.gold);
-    px(g, x - 9, y - 16 - hu, 18, 15, C.hair); px(g, x - 10, y - 4, 4, 6 - hu, C.hair); px(g, x - 9, y + 1 - hu, 3, 2, C.hairS); px(g, x + 6, y - 4, 3, 5, C.hair); px(g, x - 7, y - 2, 2, 3, C.hairS);
-    if (F.front) { // facing camera
-      px(g, x - 5, y - 12, 11, 10, C.skin); px(g, x - 6, y - 14, 13, 4, C.hair); px(g, x - 6, y - 10, 2, 5, C.hair); px(g, x + 5, y - 10, 2, 5, C.hair);
-      px(g, x - 4, y - 9, 2, 3, C.eye); px(g, x + 2, y - 9, 2, 3, C.eye); px(g, x - 4, y - 9, 1, 1, '#fff'); px(g, x + 2, y - 9, 1, 1, '#fff'); px(g, x, y - 4, 1, 1, '#d89a9a');
+    // hood (rounded), back drape
+    disc(g, x - 1, y - 9, 12, C.navy); poly(g, [[x - 12, y - 6], [x - 6, y - 4], [x - 9, y + 6], [x - 15, y + 4]], C.navy); disc(g, x - 3, y - 13, 7, C.navyL);
+    disc(g, x - 1, y - 9, 12, C.navy);
+    for (const [a, b] of [[-9, -16], [-4, -20], [-11, -9], [2, -20]]) px(g, x + a, y + b, 1, 1, C.gold);
+    // hair: bob with side locks
+    disc(g, x + 1, y - 8, 8, C.hair); px(g, x - 8, y - 9, 4, 13 - hu, C.hair); px(g, x - 8, y + 2 - hu, 2, 2, C.hairS); px(g, x - 5, y - 2, 2, 5, C.hairS);
+    px(g, x + 7, y - 9, 3, 12 - hu, C.hair); px(g, x + 8, y + 1 - hu, 2, 2, C.hairS);
+    if (F.front) {
+      px(g, x - 4, y - 11, 10, 10, C.skin); px(g, x - 5, y - 13, 12, 3, C.hair); px(g, x - 5, y - 10, 1, 1, C.hair); px(g, x + 1, y - 10, 1, 1, C.hair); px(g, x + 6, y - 10, 1, 1, C.hair);
+      for (const ex of [-3, 3]) { px(g, x + ex, y - 8, 2, 4, C.eye); px(g, x + ex, y - 9, 2, 1, '#1d2f78'); px(g, x + ex, y - 8, 1, 1, '#fff'); }
+      px(g, x + 1, y - 3, 1, 1, '#d89a9a');
     } else {
-      px(g, x - 2, y - 12, 10, 10, C.skin); px(g, x - 3, y - 14, 11, 4, C.hair); px(g, x + 2, y - 11, 2, 2, C.hair); px(g, x - 3, y - 11, 3, 6, C.hair); px(g, x + 7, y - 6, 1, 2, C.skin);
+      px(g, x - 1, y - 11, 9, 10, C.skin); px(g, x + 7, y - 9, 1, 6, C.skin); px(g, x - 1, y - 2, 1, 1, C.hair); px(g, x + 7, y - 2, 1, 1, C.hair);
+      px(g, x - 2, y - 13, 11, 3, C.hair); px(g, x + 1, y - 10, 1, 2, C.hair); px(g, x + 4, y - 10, 1, 1, C.hair); px(g, x + 8, y - 10, 1, 1, C.hair); px(g, x - 1, y - 10, 2, 5, C.hair);
       const e = F.eye;
-      if (e === 'closed') px(g, x + 3, y - 7, 3, 1, '#4a3a4a');
-      else if (e === 'wince') { px(g, x + 3, y - 8, 3, 1, '#4a3a4a'); px(g, x + 4, y - 7, 2, 1, '#4a3a4a'); }
-      else { px(g, x + 3, y - 9, 3, 4, C.eye); px(g, x + 3, y - 9, 3, 1, '#1d2f78'); px(g, x + 3, y - 8, 1, 1, '#fff'); px(g, x + 5, y - 6, 1, 1, '#9ab8ff'); if (e === 'fierce') px(g, x + 2, y - 10, 4, 1, '#2a2a3a'); }
-      px(g, x + 6, y - 4, 1, 1, '#d89a9a');
+      if (e === 'closed') { px(g, x + 3, y - 6, 3, 1, '#4a3a4a'); px(g, x + 2, y - 7, 1, 1, '#4a3a4a'); }
+      else if (e === 'wince') { px(g, x + 3, y - 7, 3, 1, '#4a3a4a'); px(g, x + 4, y - 6, 2, 1, '#4a3a4a'); }
+      else { px(g, x + 3, y - 9, 3, 5, C.eye); px(g, x + 2, y - 10, 5, 1, '#1d1a30'); px(g, x + 3, y - 8, 1, 2, '#fff'); px(g, x + 5, y - 5, 1, 1, '#9ab8ff'); px(g, x + 3, y - 5, 3, 1, '#2a4ab0');
+        if (e === 'fierce') px(g, x + 2, y - 11, 5, 1, '#9a9ab0'); }
+      px(g, x + 6, y - 3, 1, 1, '#d89a9a'); px(g, x + 4, y - 2, 2, 1, '#e8b8b0');
     }
-    // hood
-    px(g, x - 11, y - 18, 20, 5, C.navy); px(g, x - 11, y - 14, 20, 1, C.gold); px(g, x + 7, y - 16, 3, 6, C.navy); px(g, x + 8, y - 11, 1, 1, C.gold);
-    for (const [a, b] of [[-8, -17], [-2, -18], [4, -17]]) px(g, x + a, y + b, 1, 1, C.gold);
-    // ears (twitch)
-    const ear = (ex, tw) => { px(g, x + ex, y - 21 + tw, 5, 4, C.hair); px(g, x + ex + 1, y - 23 + tw * 2, 3, 2, C.hair); px(g, x + ex + 2, y - 24 + tw * 2, 1, 1, C.hair); px(g, x + ex + 1, y - 20 + tw, 3, 2, C.pink); };
-    ear(-8, F.ear > 0 ? 1 : 0); ear(2, F.ear < 0 ? 1 : 0);
+    // hood front trim
+    for (let a = -2.6; a < -0.3; a += .12) px(g, x - 1 + Math.cos(a) * 12, y - 9 + Math.sin(a) * 12, 1, 1, C.gold);
+    // ears poke through the hood
+    const ear = (ex, tw) => { poly(g, [[x + ex, y - 17 + tw], [x + ex + 6, y - 17 + tw], [x + ex + 3, y - 25 + tw * 2]], C.hair); poly(g, [[x + ex + 1.5, y - 17 + tw], [x + ex + 4.5, y - 17 + tw], [x + ex + 3, y - 22 + tw * 2]], C.pink); };
+    ear(-9, F.ear > 0 ? 1 : 0); ear(2, F.ear < 0 ? 1 : 0);
   }
   function arms(g, F, b, wpn, phase) { // phase 'back' draws the far arm, 'front' the near arm + weapon
     const shF = [5 + b.hx * .7, b.ty + 1], shB = [-5 + b.hx * .7, b.ty + 1];
-    const wa = F.wa === null ? (wpn === 'pan' ? -2.3 : -1.75) : F.wa, [hx, hy] = F.hand;
+    const wa = F.wa === null ? -2.3 : F.wa, [hx, hy] = F.hand;
     if (phase === 'back') {
       let bh = [-7 + b.tx, b.ty + 14];
       if (F.two && F.wHand === 'front') bh = [hx + Math.cos(wa) * (wpn === 'pan' ? 4 : 12), hy + Math.sin(wa) * (wpn === 'pan' ? 4 : 12)];
@@ -108,7 +117,7 @@ const ASTA = {};
       if (F.wHand === 'back') weapon(g, bh[0], bh[1], F.wa2 !== undefined ? F.wa2 : -1.45, wpn);
       return;
     }
-    if (F.wHand === 'front') weapon(g, hx, hy, wa, wpn, F.hot);
+    if (F.wHand === 'front' && !(F.wBehind && !F.two)) weapon(g, hx, hy, wa, wpn, F.hot);
     line(g, shF[0], shF[1], hx, hy, 6, C.navy); line(g, shF[0], shF[1] + 2, hx, hy + 2, 1, C.navyL);
     const cx = hx - (hx - shF[0]) * .25, cy = hy - (hy - shF[1]) * .25; px(g, cx - 3, cy - 1, 6, 3, C.white); px(g, cx - 3, cy + 1, 6, 1, C.gold);
     px(g, hx - 2, hy - 2, 4, 4, C.skin); px(g, hx - 2, hy + 1, 4, 1, '#d8b0a0');
@@ -132,6 +141,7 @@ const ASTA = {};
       g.rotate(-Math.PI / 2 * F.lie); g.translate(-2 * F.lie, 0);
     }
     if (F.dropW && !F.lie) weapon(g, 22, -3, .06, wpn);
+    if (F.wBehind && !F.two && F.wHand === 'front' && !F.dropW) weapon(g, F.hand[0], F.hand[1], F.wa === null ? -2.3 : F.wa, wpn, F.hot);
     const b = body(g, F, wpn);
     if (F.two || F.wHand === 'back') arms(g, F, b, wpn, 'back');
     head(g, F, b.hx, b.ty - 3);
@@ -153,16 +163,16 @@ const ASTA = {};
   // ---------- animation definitions ----------
   const S = Math.sin, PI = Math.PI;
   function attack(o, wpn) { // o: a0,a1,h0,h1 (hands), lean0, lean1, crouch, step, col, r
-    const fr = [], idleA = wpn === 'pan' ? -2.3 : -1.75, two = wpn === 'scythe';
-    const mk = (t, ph) => ({ wa: t.wa, hand: t.hand, lean: t.lean, crouch: t.crouch || 0, fl: t.fl || [5, 0], bl: t.bl || [-6, 0], flare: t.flare || 0, two, eye: 'fierce', tail: t.tail || 0, skirt: t.skirt || 0, smear: t.smear || null, hot: t.hot, ear: t.ear || 0, burst: t.burst || 0, burstAt: t.burstAt, burstCol: t.burstCol, ph });
+    const fr = [], idleA = wpn === 'pan' ? -1.15 : -2.3, H0x = wpn === 'pan' ? 8 : 10, H0y = wpn === 'pan' ? -36 : -31, two = wpn === 'scythe';
+    const mk = (t, ph) => ({ wa: t.wa, hand: t.hand, lean: t.lean, crouch: t.crouch || 0, fl: t.fl || [5, 0], bl: t.bl || [-6, 0], flare: t.flare || 0, two, wBehind: false, eye: 'fierce', tail: t.tail || 0, skirt: t.skirt || 0, smear: t.smear || null, hot: t.hot, ear: t.ear || 0, burst: t.burst || 0, burstAt: t.burstAt, burstCol: t.burstCol, ph });
     const H0 = o.h0, H1 = o.h1;
-    fr.push(mk({ wa: lerp(idleA, o.a0, .55), hand: [lerp(8, H0[0], .5), lerp(-36, H0[1], .5)], lean: o.lean0 * .5, crouch: o.crouch * .5, flare: .2, tail: .3 }, 'wu'));
+    fr.push(mk({ wa: lerp(idleA, o.a0, .55), hand: [lerp(H0x, H0[0], .5), lerp(H0y, H0[1], .5)], lean: o.lean0 * .5, crouch: o.crouch * .5, flare: .2, tail: .3 }, 'wu'));
     fr.push(mk({ wa: o.a0, hand: H0, lean: o.lean0, crouch: o.crouch, flare: .4, tail: .6, fl: [6, 0], bl: [-8, 0], hot: o.hot, ear: 1 }, 'wu'));
     const sm = (f0, f1) => ({ c: [lerp(H0[0], H1[0], .5), lerp(H0[1], H1[1], .5) + (o.dy || 0)], a0: lerp(o.a0, o.a1, f0) + (o.so || 0), a1: lerp(o.a0, o.a1, f1) + (o.so || 0), r: o.r, col: o.col });
     fr.push(mk({ wa: lerp(o.a0, o.a1, .55), hand: [lerp(H0[0], H1[0], .6), lerp(H0[1], H1[1], .6)], lean: lerp(o.lean0, o.lean1, .6), flare: -.3, fl: [9 + o.step, 0], bl: [-7, 0], smear: sm(0, .55), skirt: .5, tail: .2 }, 'act'));
     fr.push(mk({ wa: o.a1, hand: H1, lean: o.lean1, flare: -.8, fl: [10 + o.step, 0], bl: [-8, 0], smear: sm(.15, 1), skirt: 1, tail: -.4, burst: o.burst ? 5 : 0, burstAt: o.burstAt, burstCol: o.col }, 'act'));
     fr.push(mk({ wa: o.a1 + (o.a1 > o.a0 ? .15 : -.15), hand: H1, lean: o.lean1 * .7, flare: .9, fl: [9 + o.step, 0], bl: [-6, 0], skirt: .6, tail: -1 }, 'rec'));
-    fr.push(mk({ wa: lerp(o.a1, idleA, .5), hand: [lerp(H1[0], 8, .5), lerp(H1[1], -36, .5)], lean: o.lean1 * .3, flare: .4, fl: [6, 0], bl: [-5, 0], tail: -.5 }, 'rec'));
+    fr.push(mk({ wa: lerp(o.a1, idleA, .5), hand: [lerp(H1[0], H0x, .5), lerp(H1[1], H0y, .5)], lean: o.lean1 * .3, flare: .4, fl: [6, 0], bl: [-5, 0], tail: -.5 }, 'rec'));
     return fr;
   }
   const ATK = {
@@ -179,31 +189,32 @@ const ASTA = {};
       heavy:  { a0: -3.6, a1: 1.3, h0: [-6, -54], h1: [15, -28], lean0: -4, lean1: 6, crouch: 5, step: 7, r: 30, col: '#ffb860', hot: true, burst: 1, burstAt: [38, -18] },
       riposte:{ a0: -2.6, a1: 1.0, h0: [0, -52], h1: [14, -32], lean0: -2, lean1: 5, crouch: 2, step: 3, r: 28, col: '#ffe08a', burst: 1, burstAt: [34, -30] } } };
   function anims(wpn) {
-    const A = {}, idleA = wpn === 'pan' ? -2.3 : -1.75;
-    A.idle = [0, 1, 2, 3, 4, 5].map(i => ({ by: [0, 0, 1, 1, 1, 0][i], tail: S(i / 6 * PI * 2), ear: i === 4 ? 1 : 0, eye: i === 5 ? 'closed' : 'open', wa: idleA + S(i / 6 * PI * 2) * .03, hand: [8, -36 + [0, 0, 1, 1, 1, 0][i]], flare: S(i / 6 * PI * 2) * .1 }));
+    const A = {}, idleA = wpn === 'pan' ? -1.15 : -2.3, H0x = wpn === 'pan' ? 8 : 10, H0y = wpn === 'pan' ? -36 : -31;
+    A.idle = [0, 1, 2, 3, 4, 5].map(i => ({ by: [0, 0, 1, 1, 1, 0][i], tail: S(i / 6 * PI * 2), ear: i === 4 ? 1 : 0, eye: i === 5 ? 'closed' : 'open', wa: idleA + S(i / 6 * PI * 2) * .03, hand: [H0x + 0, H0y + 0 + [0, 0, 1, 1, 1, 0][i]], flare: S(i / 6 * PI * 2) * .1 }));
     A.run = [0, 1, 2, 3, 4, 5, 6, 7].map(i => { const p = i / 8 * PI * 2, c = Math.cos(p), s = S(p);
-      return { fl: [3 + c * 8, -Math.max(0, s) * 5], bl: [-3 - c * 8, -Math.max(0, -s) * 5], by: -Math.round(Math.abs(s) * 2), lean: 3, flare: .7 + s * .2, tail: -1 + s * .3, tailUp: .4, skirt: .4 + Math.abs(c) * .4, wa: idleA + .25 + s * .06, hand: [9, -35 - Math.round(Math.abs(s))], hairUp: 0 }; });
+      return { fl: [3 + c * 8, -Math.max(0, s) * 5], bl: [-3 - c * 8, -Math.max(0, -s) * 5], by: -Math.round(Math.abs(s) * 2), lean: 3, flare: .7 + s * .2, tail: -1 + s * .3, tailUp: .4, skirt: .4 + Math.abs(c) * .4, wa: idleA + .25 + s * .06, hand: [H0x + 1, H0y + 1 - Math.round(Math.abs(s))], hairUp: 0 }; });
     A.jump = [{ fl: [5, -6], bl: [-5, -3], flare: -.3, capeUp: -.2, tail: .5, tailUp: -.5, skirt: -.3, lean: 1, wa: idleA + .2, hand: [9, -40] }, { fl: [6, -9], bl: [-4, -7], by: -1, flare: -.4, tail: .7, tailUp: -.6, skirt: -.4, lean: 1, wa: idleA + .3, hand: [10, -42] }];
     A.fall = [{ fl: [5, -2], bl: [-6, -4], capeUp: .6, flare: .3, hairUp: 1, tail: -.4, tailUp: 1, skirt: .8, wa: idleA - .1, hand: [9, -40] }, { fl: [4, 0], bl: [-6, -2], capeUp: 1, flare: .4, hairUp: 2, tail: -.6, tailUp: 1.2, skirt: 1, ear: 1, wa: idleA - .2, hand: [10, -42] }];
-    A.land = [{ crouch: 5, fl: [7, 0], bl: [-7, 0], flare: .8, skirt: 1.2, tail: .8, eye: 'closed', wa: idleA + .3, hand: [10, -31] }, { crouch: 2, fl: [5, 0], bl: [-5, 0], flare: .4, skirt: .5, tail: .4, wa: idleA + .1, hand: [9, -34] }];
+    A.land = [{ crouch: 5, fl: [7, 0], bl: [-7, 0], flare: .8, skirt: 1.2, tail: .8, eye: 'closed', wa: idleA + .3, hand: [H0x + 2, H0y + 5] }, { crouch: 2, fl: [5, 0], bl: [-5, 0], flare: .4, skirt: .5, tail: .4, wa: idleA + .1, hand: [H0x + 1, H0y + 2] }];
     A.roll = [0, 1, 2, 3, 4, 5].map(i => ({ roll: 1, rot: i / 6 * PI * 2 }));
     for (const k of ['light1', 'light2', 'light3', 'heavy']) A[k] = attack(ATK[wpn][k], wpn);
     A.parry = [{ wa: wpn === 'pan' ? -.9 : -.45, hand: [13, -44], lean: -2, two: true, fl: [7, 0], bl: [-7, 0], flare: .3, eye: 'fierce', hot: true },
       { wa: wpn === 'pan' ? -.8 : -.4, hand: [14, -44], lean: -2, two: true, fl: [7, 0], bl: [-7, 0], flare: .4, eye: 'fierce' },
-      { wa: -1.0, hand: [11, -40], lean: -1, two: true, fl: [6, 0], bl: [-6, 0], flare: .2 }, { wa: idleA + .2, hand: [9, -37], lean: 0, flare: .1 }];
+      { wa: -1.0, hand: [11, -40], lean: -1, two: true, fl: [6, 0], bl: [-6, 0], flare: .2 }, { wa: idleA + .2, hand: [H0x + 1, H0y + -1], lean: 0, flare: .1 }];
     A.parryflash = [6, 12, 9].map((s, i) => Object.assign({}, A.parry[0], { burst: s, burstAt: [22, -50], burstCol: i === 1 ? '#ffffff' : '#bfe0ff', flare: .6 + i * .1, ear: 1 }));
     A.riposte = attack(ATK[wpn].riposte, wpn).map(f => Object.assign(f, { eye: 'fierce' }));
     A.hit = [{ lean: -4, eye: 'wince', flare: -.8, hairUp: 1, tail: 1, tailUp: 1, ear: -1, crouch: 1, fl: [6, 0], bl: [-8, 0], wa: idleA - .4, hand: [6, -40] },
-      { lean: -3, eye: 'wince', flare: -.4, tail: .6, crouch: 2, fl: [6, 0], bl: [-7, 0], wa: idleA - .3, hand: [7, -38] }, { lean: -1, flare: .2, tail: .2, crouch: 1, wa: idleA - .1, hand: [8, -37] }];
-    A.death = [{ lean: -4, eye: 'wince', flare: -.6, hairUp: 1, tail: 1, wa: idleA - .5, hand: [6, -40] }, { crouch: 6, lean: 2, eye: 'closed', flare: .5, tail: -.2, wa: idleA + .6, hand: [10, -30] },
+      { lean: -3, eye: 'wince', flare: -.4, tail: .6, crouch: 2, fl: [6, 0], bl: [-7, 0], wa: idleA - .3, hand: [H0x + -1, H0y + -2] }, { lean: -1, flare: .2, tail: .2, crouch: 1, wa: idleA - .1, hand: [H0x + 0, H0y + -1] }];
+    A.death = [{ lean: -4, eye: 'wince', flare: -.6, hairUp: 1, tail: 1, wa: idleA - .5, hand: [6, -40] }, { crouch: 6, lean: 2, eye: 'closed', flare: .5, tail: -.2, wa: idleA + .6, hand: [H0x + 2, H0y + 6] },
       { kneel: 1, lean: 4, eye: 'closed', flare: .6, tail: -.5, dropW: true }, { kneel: 1, lean: 7, eye: 'closed', flare: .8, tail: -.8, headDy: 2, dropW: true },
       { kneel: 1, lean: 7, eye: 'closed', lie: .55, flare: 1, tail: -1, dropW: true }, { kneel: 1, lean: 7, eye: 'closed', lie: 1, flare: 1, tail: -1, dropW: true }];
-    A.rest = [{ crouch: 5, wa: -1.5, hand: [11, -40], eye: 'open', flare: .3 }, { kneel: 1, wa: -1.45, hand: [11, -36], eye: 'closed', flare: .5, tail: -.6 },
-      { kneel: 1, wa: -1.45, hand: [11, -36], eye: 'closed', flare: .5, tail: -.4, by: 0 }, { kneel: 1, wa: -1.45, hand: [11, -35], eye: 'closed', flare: .5, tail: -.2, by: 1, ear: 1 }];
+    A.rest = [{ crouch: 5, wa: -1.5, hand: [11, -40], eye: 'open', flare: .3 }, { kneel: 1, wa: -1.45, hand: [H0x + 3, H0y + 0], eye: 'closed', flare: .5, tail: -.6 },
+      { kneel: 1, wa: -1.45, hand: [H0x + 3, H0y + 0], eye: 'closed', flare: .5, tail: -.4, by: 0 }, { kneel: 1, wa: -1.45, hand: [H0x + 3, H0y + 1], eye: 'closed', flare: .5, tail: -.2, by: 1, ear: 1 }];
     const fl = (h, f, o) => Object.assign({ wHand: 'back', hand2: [-8, -32], wa2: -1.6, hand: h, flask: f }, o);
     A.flask = [fl([9, -34], [9, -34], {}), fl([10, -44], [10, -44], {}), fl([7, -50], [7, -52], { lean: -2, headDy: -1, eye: 'closed' }), fl([7, -51], [7, -53], { lean: -3, headDy: -1, eye: 'closed', ear: 1 }),
       fl([9, -40], [9, -40], { lean: -1 }), fl([8, -36], null, { heal: 1, eye: 'open' })];
-    A.turn = [{ mirror: true, lean: -2, flare: -.8, tail: 1, skirt: .6, wa: idleA, hand: [8, -36] }, { front: true, flare: .2, tail: 0, skirt: .8, wa: -1.57, hand: [8, -36] }, { lean: 1, flare: .9, tail: -1, skirt: .6, wa: idleA + .1, hand: [8, -36] }];
+    A.turn = [{ mirror: true, lean: -2, flare: -.8, tail: 1, skirt: .6, wa: idleA, hand: [H0x + 0, H0y + 0] }, { front: true, flare: .2, tail: 0, skirt: .8, wa: -1.57, hand: [H0x + 0, H0y + 0] }, { lean: 1, flare: .9, tail: -1, skirt: .6, wa: idleA + .1, hand: [H0x + 0, H0y + 0] }];
+    if (wpn === 'pan') for (const k in A) for (const f of A[k]) if (f.wBehind === undefined) f.wBehind = false;
     return A;
   }
   ASTA.ORDER = ['idle', 'run', 'jump', 'fall', 'land', 'roll', 'light1', 'light2', 'light3', 'heavy', 'parry', 'parryflash', 'riposte', 'hit', 'death', 'rest', 'flask', 'turn'];
